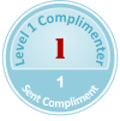
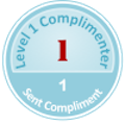
Adjust sizes

diff --git a/app/helpers/recognition_helper.rb b/app/helpers/recognition_helper.rb
@@ -91,13 +91,12 @@ module RecognitionHelper
   def og_meta_image(recognition=nil)
     if recognition.nil? || recognition.is_compliment?
       return "http://www.complimentkarma.com/assets/social/ck_logo_fb_profile_180.png"
-      # return "https://s3.amazonaws.com/compliment_karma_prod/assets/ck_logo_fb_profile.jpeg"
     elsif recognition.is_accomplishment?
       ua = recognition.user_accomplishment
       return "http://www.complimentkarma.com/assets/#{ua.accomplishment.image_thumb}"
     elsif recognition.is_reward?
       r = recognition.reward
-      return "http://www.complimentkarma.com/assets/reward/reward_fb_money.png"
+      return "http://www.complimentkarma.com/assets/reward/reward_gp_money.png"
     end
   end
 
